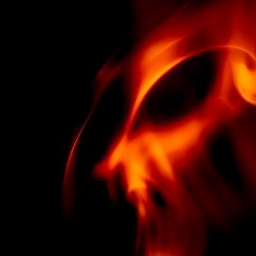
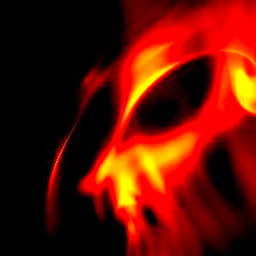
lazarus.day 1.4.1: brighter card thumbnail crop

diff --git a/src/lookup.ts b/src/lookup.ts
@@ -92,7 +92,7 @@ export const lazarusLookup = definePlugin({
         identifier: 'run.vineyard.plugins.lazarusday_lookup',
         content_type: 'vineyard:plugin',
         name: 'lazarus.day IoC Lookup',
-        version: '1.4.0',
+        version: '1.4.1',
         description:
             'Looks up each selected Domain, IP Address, URL, File Hash, E-mail Address, Crypto Address or ASN as an exact record in lazarus.day’s public DPRK indicator index, writes the record’s dates and detail onto the node, adds each report that names it as a Campaign linked “reported in”, and optionally adds the IPs and URLs the site lists for a Domain or ASN. Desktop only.',
         icon: 'crosshair',

diff --git a/src/search.ts b/src/search.ts
@@ -113,7 +113,7 @@ export const lazarusSearch = definePlugin({
         identifier: 'run.vineyard.plugins.lazarusday_search',
         content_type: 'vineyard:plugin',
         name: 'lazarus.day IoC Search',
-        version: '1.4.0',
+        version: '1.4.1',
         description:
             'Searches lazarus.day’s public DPRK indicator index by keyword and adds each match as the node its category names — Domain, IP Address, URL, File Hash, E-mail Address, Crypto Address, ASN — carrying the record URL and first/last-seen dates. Matching is a case-insensitive substring of the indicator value. Desktop only.',
         icon: 'radar',

diff --git a/src/main.ts b/src/main.ts
@@ -14,7 +14,7 @@ export default definePluginPack({
     identifier: 'run.vineyard.pluginpacks.lazarusday',
     content_type: 'vineyard:pluginpack',
     name: 'lazarus.day',
-    version: '1.4.0',
+    version: '1.4.1',
     description:
         'Searches and reads lazarus.day (https://lazarus.day), the public DPRK indicator index by @lazarusholic (https://x.com/lazarusholic): keyword search stages matches as graph nodes, and exact-record lookup adds the reports naming them. Desktop only.',
     thumbnail_url: 'assets/thumbnail.png',
